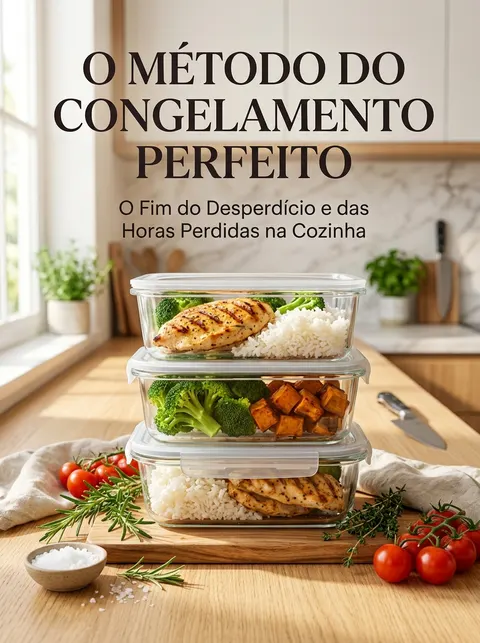
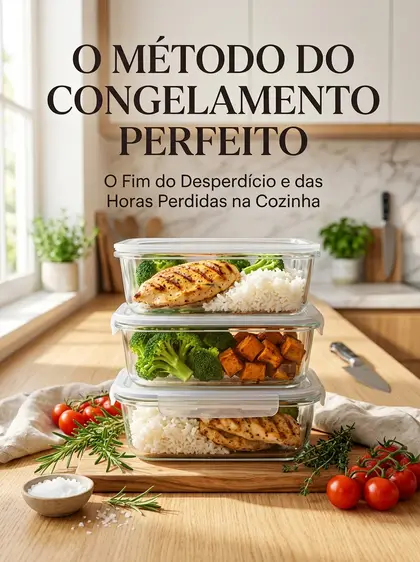
perf: convert all ebook and sales page images to WebP, inline CSS, and add lazy loading + fetchpriority

diff --git a/src/components/app/EbookCongelamentoReader.tsx b/src/components/app/EbookCongelamentoReader.tsx
@@ -474,10 +474,14 @@ export default function EbookCongelamentoReader() {
 
           <div className="max-w-sm sm:max-w-md mx-auto mb-8 rounded-3xl overflow-hidden shadow-[0_20px_60px_-15px_rgba(16,185,129,0.25)] border-2 border-slate-800/90 group relative">
             <img
-              src="/ebook-congelamento/capa.jpg"
-              alt="Capa do E-book: O Método do Congelamento Perfeito - O Fim do Desperdício e das Horas Perdidas na Cozinha"
-              className="w-full h-auto object-cover transition-transform duration-500 group-hover:scale-[1.02]"
-            />
+                src="/ebook-congelamento/capa.webp"
+                alt="Capa do E-book: O Método do Congelamento Perfeito - O Fim do Desperdício e das Horas Perdidas na Cozinha"
+                width={560}
+                height={748}
+                fetchPriority="high"
+                decoding="async"
+                className="w-full h-auto object-cover transition-transform duration-500 group-hover:scale-[1.02]"
+              />
           </div>
 
           <span className="text-xs uppercase font-extrabold tracking-widest text-amber-400 block mb-2">
@@ -532,10 +536,14 @@ export default function EbookCongelamentoReader() {
 
           <figure className="my-8 rounded-3xl overflow-hidden border border-slate-800 shadow-2xl bg-slate-950">
             <img
-              src="/ebook-congelamento/intro-marmitas.jpg"
-              alt="Três potes de vidro herméticos alinhados sobre bancada de madeira clara contendo frango grelhado, arroz soltinho, brócolis bem verde e fatias de batata-doce"
-              className="w-full max-h-[420px] object-cover object-center"
-            />
+                src="/ebook-congelamento/intro-marmitas.webp"
+                alt="Três potes de vidro herméticos alinhados sobre bancada de madeira clara contendo frango grelhado, arroz soltinho, brócolis bem verde e fatias de batata-doce"
+                width={640}
+                height={360}
+                loading="lazy"
+                decoding="async"
+                className="w-full max-h-[420px] object-cover object-center"
+              />
             <figcaption className="px-5 py-3.5 text-xs sm:text-sm text-slate-400 bg-slate-950/90 border-t border-slate-800/80 flex items-center justify-between gap-2">
               <span>
                 <strong className="text-emerald-400">O Padrão Revista:</strong> Potes de vidro herméticos com porções equilibradas que mantêm a cor vibrante, a textura firme e o sabor de comida feita na hora.
@@ -599,8 +607,12 @@ export default function EbookCongelamentoReader() {
 
             <figure className="rounded-2xl overflow-hidden border border-slate-800 shadow-lg bg-slate-900">
               <img
-                src="/ebook-congelamento/lei-1-temperatura.jpg"
+                src="/ebook-congelamento/lei-1-temperatura.webp"
                 alt="Pote de vidro retangular aberto sobre pia de granito com fumaça suave saindo da carne com molho e pano de prato xadrez ao lado"
+                width={640}
+                height={360}
+                loading="lazy"
+                decoding="async"
                 className="w-full max-h-96 object-cover object-center"
               />
               <figcaption className="px-4 py-3 text-xs text-slate-400 bg-slate-950 border-t border-slate-800/80">
@@ -641,8 +653,12 @@ export default function EbookCongelamentoReader() {
 
             <figure className="rounded-2xl overflow-hidden border border-slate-800 shadow-lg bg-slate-900">
               <img
-                src="/ebook-congelamento/lei-2-bloqueio-ar.jpg"
+                src="/ebook-congelamento/lei-2-bloqueio-ar.webp"
                 alt="Pote de vidro temperado com tampa hermética de 4 travas e anel de silicone, preenchido até faltar um dedo para a borda"
+                width={640}
+                height={360}
+                loading="lazy"
+                decoding="async"
                 className="w-full max-h-96 object-cover object-center"
               />
               <figcaption className="px-4 py-3 text-xs text-slate-400 bg-slate-950 border-t border-slate-800/80">
@@ -702,8 +718,12 @@ export default function EbookCongelamentoReader() {
 
             <figure className="rounded-2xl overflow-hidden border border-slate-800 shadow-lg bg-slate-900">
               <img
-                src="/ebook-congelamento/lei-3-porcionamento.jpg"
+                src="/ebook-congelamento/lei-3-porcionamento.webp"
                 alt="Mão segurando uma pequena porção individual de feijão escuro dentro de um saquinho ziplock transparente fechado a vácuo"
+                width={640}
+                height={360}
+                loading="lazy"
+                decoding="async"
                 className="w-full max-h-96 object-cover object-center"
               />
               <figcaption className="px-4 py-3 text-xs text-slate-400 bg-slate-950 border-t border-slate-800/80">
@@ -763,8 +783,12 @@ export default function EbookCongelamentoReader() {
 
             <figure className="rounded-2xl overflow-hidden border border-slate-800 shadow-lg bg-slate-900">
               <img
-                src="/ebook-congelamento/lei-4-etiqueta.jpg"
+                src="/ebook-congelamento/lei-4-etiqueta.webp"
                 alt="Macro close-up de etiqueta de fita crepe branca na tampa de um pote escrito Frango com Batata-Doce - 16/10"
+                width={640}
+                height={360}
+                loading="lazy"
+                decoding="async"
                 className="w-full max-h-96 object-cover object-center"
               />
               <figcaption className="px-4 py-3 text-xs text-slate-400 bg-slate-950 border-t border-slate-800/80">
@@ -965,8 +989,12 @@ export default function EbookCongelamentoReader() {
 
             <figure className="rounded-2xl overflow-hidden border border-slate-800 shadow-lg bg-slate-900">
               <img
-                src="/ebook-congelamento/cap2-raizes-frango.jpg"
+                src="/ebook-congelamento/cap2-raizes-frango.webp"
                 alt="Marmita de vidro dividida ao meio: de um lado fatias de batata-doce e pedaços de macaxeira dourados, do outro peito de frango grelhado suculento"
+                width={640}
+                height={360}
+                loading="lazy"
+                decoding="async"
                 className="w-full max-h-96 object-cover object-center"
               />
               <figcaption className="px-4 py-3 text-xs text-slate-400 bg-slate-950 border-t border-slate-800/80">
@@ -1060,8 +1088,12 @@ export default function EbookCongelamentoReader() {
 
             <figure className="rounded-2xl overflow-hidden border border-slate-800 shadow-lg bg-slate-900">
               <img
-                src="/ebook-congelamento/cap2-branqueamento.jpg"
+                src="/ebook-congelamento/cap2-branqueamento.webp"
                 alt="Escumadeira de aço inox levantando pedaços de brócolis verde vibrante e cenoura laranja de um banho de água com cubos de gelo"
+                width={640}
+                height={360}
+                loading="lazy"
+                decoding="async"
                 className="w-full max-h-96 object-cover object-center"
               />
               <figcaption className="px-4 py-3 text-xs text-slate-400 bg-slate-950 border-t border-slate-800/80">
@@ -1299,8 +1331,12 @@ export default function EbookCongelamentoReader() {
 
             <figure className="rounded-2xl overflow-hidden border border-slate-800 shadow-lg bg-slate-900">
               <img
-                src="/ebook-congelamento/cap3-etapa1-mise-en-place.jpg"
+                src="/ebook-congelamento/cap3-etapa1-mise-en-place.webp"
                 alt="Tábua de corte de madeira rústica com tigelas de vidro contendo alho picado, cebola picada, cubos de batata-doce, macaxeira e tiras de frango temperado ao lado de faca de chef"
+                width={640}
+                height={360}
+                loading="lazy"
+                decoding="async"
                 className="w-full max-h-96 object-cover object-center"
               />
               <figcaption className="px-4 py-3 text-xs text-slate-400 bg-slate-950 border-t border-slate-800/80">
@@ -1414,8 +1450,12 @@ export default function EbookCongelamentoReader() {
 
             <figure className="rounded-2xl overflow-hidden border border-slate-800 shadow-lg bg-slate-900">
               <img
-                src="/ebook-congelamento/cap3-etapa3-fogao.jpg"
+                src="/ebook-congelamento/cap3-etapa3-fogao.webp"
                 alt="Fogão de aço inox com panela grande fervendo água com brócolis bem verde e outra panela ao fundo com arroz branco soltinho recém-feito"
+                width={640}
+                height={360}
+                loading="lazy"
+                decoding="async"
                 className="w-full max-h-96 object-cover object-center"
               />
               <figcaption className="px-4 py-3 text-xs text-slate-400 bg-slate-950 border-t border-slate-800/80">
@@ -1496,8 +1536,12 @@ export default function EbookCongelamentoReader() {
 
             <figure className="rounded-2xl overflow-hidden border border-slate-800 shadow-lg bg-slate-900">
               <img
-                src="/ebook-congelamento/cap3-etapa4-montagem.jpg"
+                src="/ebook-congelamento/cap3-etapa4-montagem.webp"
                 alt="Fileira de 6 marmitas de vidro retangulares em bancada de granito claro preenchidas harmoniosamente com purê de macaxeira, batata-doce, carne de panela ao molho e brócolis"
+                width={640}
+                height={360}
+                loading="lazy"
+                decoding="async"
                 className="w-full max-h-96 object-cover object-center"
               />
               <figcaption className="px-4 py-3 text-xs text-slate-400 bg-slate-950 border-t border-slate-800/80">
@@ -1675,8 +1719,12 @@ export default function EbookCongelamentoReader() {
             {/* Imagem 1 do Capítulo 4 */}
             <figure className="rounded-2xl overflow-hidden border border-slate-800 shadow-lg bg-slate-900">
               <img
-                src="/ebook-congelamento/cap4-geladeira.jpg"
+                src="/ebook-congelamento/cap4-geladeira.webp"
                 alt="Marmita de vidro hermética levemente suada pelo frio repousando sobre a prateleira iluminada de uma geladeira moderna com legumes e filé de frango"
+                width={640}
+                height={360}
+                loading="lazy"
+                decoding="async"
                 className="w-full max-h-96 object-cover object-center"
               />
               <figcaption className="px-4 py-3 text-xs text-slate-400 bg-slate-950 border-t border-slate-800/80">
@@ -1765,8 +1813,12 @@ export default function EbookCongelamentoReader() {
             {/* Imagem 2 do Capítulo 4 */}
             <figure className="rounded-2xl overflow-hidden border border-slate-800 shadow-lg bg-slate-900">
               <img
-                src="/ebook-congelamento/cap4-microondas-vapor.jpg"
+                src="/ebook-congelamento/cap4-microondas-vapor.webp"
                 alt="Close-up do interior de um micro-ondas limpo com pote de vidro contendo arroz branco e carne de panela, tampa semiaberta e nuvem de vapor quente saindo"
+                width={640}
+                height={360}
+                loading="lazy"
+                decoding="async"
                 className="w-full max-h-96 object-cover object-center"
               />
               <figcaption className="px-4 py-3 text-xs text-slate-400 bg-slate-950 border-t border-slate-800/80">
@@ -1928,10 +1980,14 @@ export default function EbookCongelamentoReader() {
           {/* Imagem da Conclusão */}
           <figure className="rounded-3xl overflow-hidden border-2 border-emerald-500/30 shadow-2xl bg-slate-950">
             <img
-              src="/ebook-congelamento/conclusao-freezer-organizado.jpg"
-              alt="Mulher sorridente e relaxada fechando a porta de um freezer vertical completamente abastecido com marmitas empilhadas e organizadas, com cozinha limpa ao fundo"
-              className="w-full max-h-[440px] object-cover object-center"
-            />
+                src="/ebook-congelamento/conclusao-freezer-organizado.webp"
+                alt="Mulher sorridente e relaxada fechando a porta de um freezer vertical completamente abastecido com marmitas empilhadas e organizadas, com cozinha limpa ao fundo"
+                width={640}
+                height={360}
+                loading="lazy"
+                decoding="async"
+                className="w-full max-h-[440px] object-cover object-center"
+              />
             <figcaption className="px-5 py-4 text-xs sm:text-sm text-slate-300 bg-slate-950 border-t border-slate-800">
               <strong className="text-emerald-400">Paz, Tempo Livre e Dever Cumprido:</strong> Freezer abastecido, cozinha impecável e uma semana inteira de refeições prontas esperando por você.
             </figcaption>

diff --git a/src/components/app/EbookReceitasReader.tsx b/src/components/app/EbookReceitasReader.tsx
@@ -196,10 +196,14 @@ export default function EbookReceitasReader() {
 
           <div className="max-w-sm sm:max-w-md mx-auto mb-8 rounded-3xl overflow-hidden shadow-[0_20px_60px_-15px_rgba(245,158,11,0.25)] border-2 border-slate-800/90 group relative">
             <img
-              src="/ebook-receitas/capa-receitas.jpg"
-              alt="Capa do E-book: Guia Prático 30 Receitas à Prova de Congelamento - Produzido por Projetos Mautex"
-              className="w-full h-auto object-cover transition-transform duration-500 group-hover:scale-[1.02]"
-            />
+                src="/ebook-receitas/capa-receitas.webp"
+                alt="Capa do E-book: Guia Prático 30 Receitas à Prova de Congelamento - Produzido por Projetos Mautex"
+                width={560}
+                height={748}
+                fetchPriority="high"
+                decoding="async"
+                className="w-full h-auto object-cover transition-transform duration-500 group-hover:scale-[1.02]"
+              />
           </div>
 
           <span className="text-xs uppercase font-extrabold tracking-widest text-emerald-400 block mb-2">
@@ -272,8 +276,12 @@ export default function EbookReceitasReader() {
 
             <figure className="rounded-3xl overflow-hidden border border-slate-800 shadow-2xl bg-slate-950 mb-8">
               <img
-                src="/ebook-receitas/cat1-proteinas.jpg"
+                src="/ebook-receitas/cat1-proteinas.webp"
                 alt="Carnes e frangos suculentos preparados com molho encorpado para congelamento perfeito"
+                width={640}
+                height={360}
+                loading="lazy"
+                decoding="async"
                 className="w-full max-h-96 object-cover object-center"
               />
               <figcaption className="px-5 py-3 text-xs text-slate-400 bg-slate-950 border-t border-slate-800/80">
@@ -893,8 +901,12 @@ export default function EbookReceitasReader() {
 
             <figure className="rounded-3xl overflow-hidden border border-slate-800 shadow-2xl bg-slate-950 mb-8">
               <img
-                src="/ebook-receitas/cat2-escondidinhos.jpg"
+                src="/ebook-receitas/cat2-escondidinhos.webp"
                 alt="Escondidinho de macaxeira com carne de sol gratinado com queijo de manteiga e assados em potes de vidro"
+                width={640}
+                height={360}
+                loading="lazy"
+                decoding="async"
                 className="w-full max-h-96 object-cover object-center"
               />
               <figcaption className="px-5 py-3 text-xs text-slate-400 bg-slate-950 border-t border-slate-800/80">
@@ -1448,8 +1460,12 @@ export default function EbookReceitasReader() {
 
             <figure className="rounded-3xl overflow-hidden border border-slate-800 shadow-2xl bg-slate-950 mb-8">
               <img
-                src="/ebook-receitas/cat3-acompanhamentos.jpg"
+                src="/ebook-receitas/cat3-acompanhamentos.webp"
                 alt="Arroz branco soltinho, feijão de caldo grosso, mix de raízes assadas com alecrim e brócolis branqueado na manteiga"
+                width={640}
+                height={360}
+                loading="lazy"
+                decoding="async"
                 className="w-full max-h-96 object-cover object-center"
               />
               <figcaption className="px-5 py-3 text-xs text-slate-400 bg-slate-950 border-t border-slate-800/80">
@@ -1718,8 +1734,12 @@ export default function EbookReceitasReader() {
 
             <figure className="rounded-3xl overflow-hidden border border-slate-800 shadow-2xl bg-slate-950 mb-8">
               <img
-                src="/ebook-receitas/cat4-caldos.jpg"
+                src="/ebook-receitas/cat4-caldos.webp"
                 alt="Caldo verde de macaxeira com linguiça e couve, caldo de abóbora com gengibre e frango, e caldo de feijão encorpado com bacon"
+                width={640}
+                height={360}
+                loading="lazy"
+                decoding="async"
                 className="w-full max-h-96 object-cover object-center"
               />
               <figcaption className="px-5 py-3 text-xs text-slate-400 bg-slate-950 border-t border-slate-800/80">

diff --git a/src/components/app/EbookEmergenciaReader.tsx b/src/components/app/EbookEmergenciaReader.tsx
@@ -224,8 +224,12 @@ export default function EbookEmergenciaReader() {
           <div className="md:col-span-5 flex justify-center">
             <div className="relative w-64 sm:w-72 rounded-2xl overflow-hidden shadow-2xl border-2 border-amber-500/30 group">
               <img
-                src="/ebook-emergencia/capa-emergencia.jpg"
+                src="/ebook-emergencia/capa-emergencia.webp"
                 alt="Capa do Guia O Plano de Emergência: 15 Marmitas em 15 Minutos (Uma Panela Só)"
+                width={560}
+                height={748}
+                fetchPriority="high"
+                decoding="async"
                 className="w-full h-auto object-cover group-hover:scale-105 transition duration-500"
               />
             </div>
@@ -343,8 +347,12 @@ export default function EbookEmergenciaReader() {
 
             <figure className="rounded-3xl overflow-hidden border border-slate-800 shadow-2xl bg-slate-950 mb-8">
               <img
-                src="/ebook-emergencia/cat1-frigideira.jpg"
+                src="/ebook-emergencia/cat1-frigideira.webp"
                 alt="Frigideira funda antiaderente preparando frango oriental com brócolis e iscas de carne aceboladas em minutos"
+                width={640}
+                height={360}
+                loading="lazy"
+                decoding="async"
                 className="w-full max-h-96 object-cover object-center"
               />
               <figcaption className="px-5 py-3 text-xs text-slate-400 bg-slate-950 border-t border-slate-800/80">
@@ -799,8 +807,12 @@ export default function EbookEmergenciaReader() {
 
             <figure className="rounded-3xl overflow-hidden border border-slate-800 shadow-2xl bg-slate-950 mb-8">
               <img
-                src="/ebook-emergencia/cat2-pressao.jpg"
+                src="/ebook-emergencia/cat2-pressao.webp"
                 alt="Galinhada dourada na panela de pressão e sopa cremosa de ervilha com bacon"
+                width={640}
+                height={360}
+                loading="lazy"
+                decoding="async"
                 className="w-full max-h-96 object-cover object-center"
               />
               <figcaption className="px-5 py-3 text-xs text-slate-400 bg-slate-950 border-t border-slate-800/80">
@@ -1022,8 +1034,12 @@ export default function EbookEmergenciaReader() {
 
             <figure className="rounded-3xl overflow-hidden border border-slate-800 shadow-2xl bg-slate-950 mb-8">
               <img
-                src="/ebook-emergencia/cat3-montagem.jpg"
+                src="/ebook-emergencia/cat3-montagem.webp"
                 alt="Marmitas montadas rapidamente com panquecas de tortilha ao molho vermelho, escondidinho rápido e arroz de forno"
+                width={640}
+                height={360}
+                loading="lazy"
+                decoding="async"
                 className="w-full max-h-96 object-cover object-center"
               />
               <figcaption className="px-5 py-3 text-xs text-slate-400 bg-slate-950 border-t border-slate-800/80">
